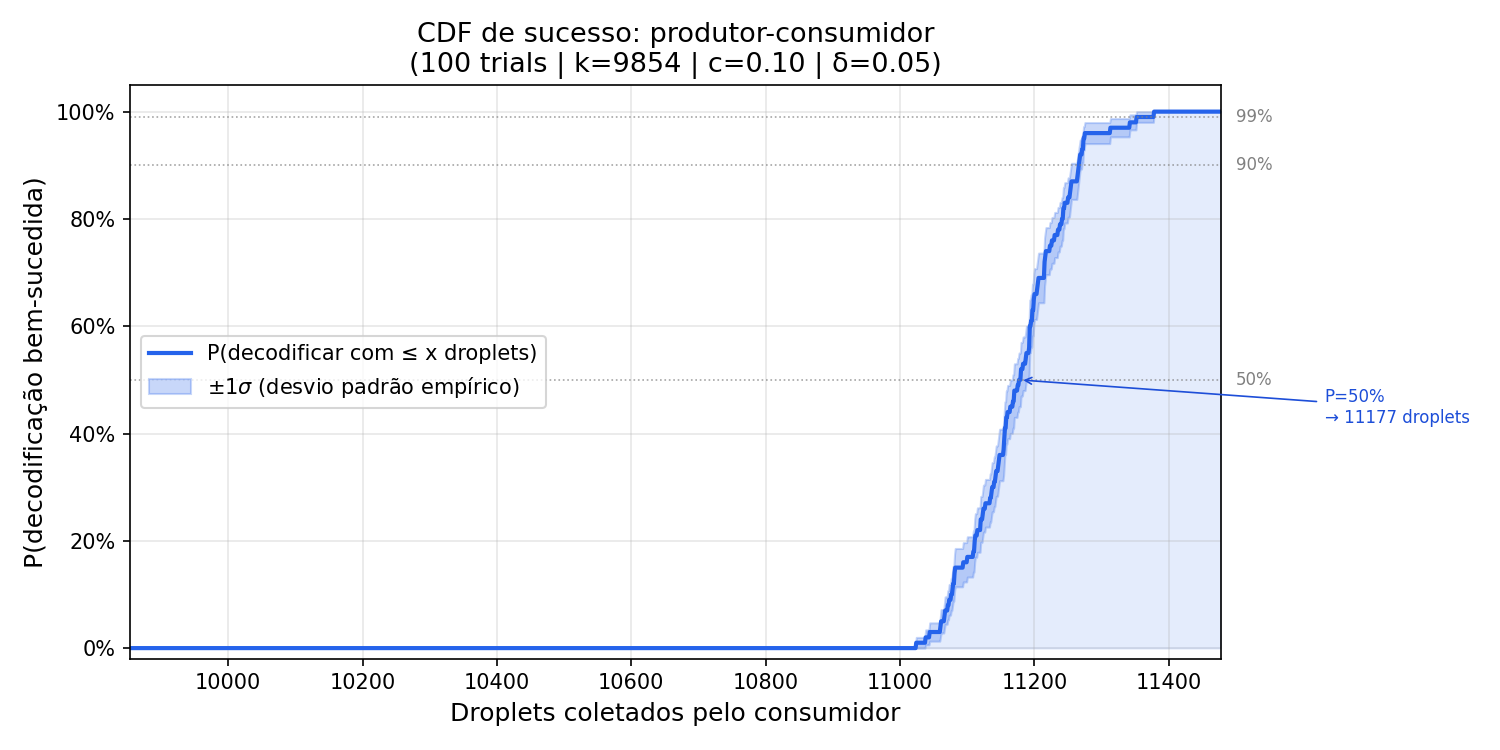
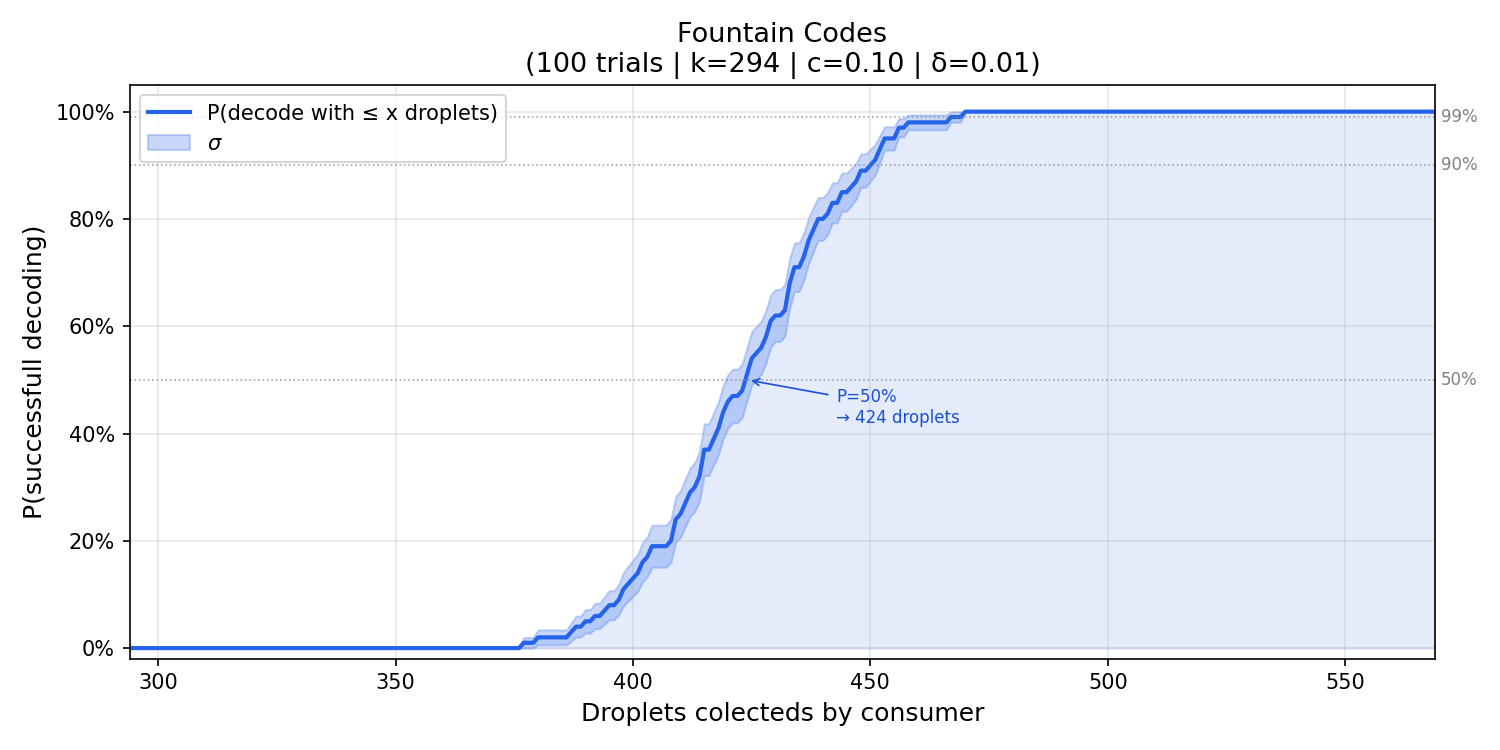
minor changes

diff --git a/src/distribution.rs b/src/distribution.rs
@@ -1,4 +1,4 @@
-//! Degree distribution trait and the Robust Soliton Distribution (RSD) for LT codes.
+//! Degree distribution trait, the Ideal Soliton Distribution (ISD), and the Robust Soliton Distribution (RSD) for LT codes.
 //!
 //! This module defines [`DegreeDistribution`], the abstraction over how many source
 //! blocks each encoded droplet combines, and provides the canonical implementation
@@ -33,25 +33,117 @@
 //! ```
 
 use rand::Rng;
+use rand_distr::{Binomial, Distribution, Geometric, Poisson};
 
 /// Trait for swappable degree distributions in fountain codes.
-///
-/// Implementations define how many source symbols are combined into a
-/// single encoded packet (the "degree").
 pub trait DegreeDistribution {
-    /// Samples a degree $d$ satisfying the contract $1 \le d \le K$.
-    ///
-    /// Implementations **must** guarantee the returned value lies in $[1, K]$,
-    /// where $K$ is the number of source blocks. Values outside this range
-    /// will cause out-of-bounds index selection during encoding.
     fn sample_degree<R: Rng + ?Sized>(&self, rng: &mut R) -> usize;
-
-    /// Computes the expected value $E[D]$ of the distribution.
-    ///
-    /// Used for overhead estimation and diagnostic reporting. The value
-    /// reflects the average number of XOR operations per encoded packet
-    /// under the current parameterization.
     fn expected_degree(&self) -> f64;
+}
+
+pub enum AnyDistribution {
+    RobustSoliton(RobustSoliton),
+    IdealSoliton(IdealSoliton),
+    Poisson(PoissonDist),
+    Geometric(GeometricDist),
+    Binomial(BinomialDist),
+}
+
+impl DegreeDistribution for AnyDistribution {
+    fn sample_degree<R: Rng + ?Sized>(&self, rng: &mut R) -> usize {
+        match self {
+            AnyDistribution::RobustSoliton(d) => d.sample_degree(rng),
+            AnyDistribution::IdealSoliton(d) => d.sample_degree(rng),
+            AnyDistribution::Poisson(d) => d.sample_degree(rng),
+            AnyDistribution::Geometric(d) => d.sample_degree(rng),
+            AnyDistribution::Binomial(d) => d.sample_degree(rng),
+        }
+    }
+    fn expected_degree(&self) -> f64 {
+        match self {
+            AnyDistribution::RobustSoliton(d) => d.expected_degree(),
+            AnyDistribution::IdealSoliton(d) => d.expected_degree(),
+            AnyDistribution::Poisson(d) => d.expected_degree(),
+            AnyDistribution::Geometric(d) => d.expected_degree(),
+            AnyDistribution::Binomial(d) => d.expected_degree(),
+        }
+    }
+}
+
+pub struct PoissonDist { pub k: usize, pub lambda: f64 }
+impl DegreeDistribution for PoissonDist {
+    fn sample_degree<R: Rng + ?Sized>(&self, rng: &mut R) -> usize {
+        let dist = Poisson::new(self.lambda).unwrap_or_else(|_| Poisson::new(1.0).unwrap());
+        (dist.sample(rng) as usize).clamp(1, self.k)
+    }
+    fn expected_degree(&self) -> f64 { self.lambda }
+}
+
+pub struct GeometricDist { pub k: usize, pub p: f64 }
+impl DegreeDistribution for GeometricDist {
+    fn sample_degree<R: Rng + ?Sized>(&self, rng: &mut R) -> usize {
+        let dist = Geometric::new(self.p).unwrap_or_else(|_| Geometric::new(0.5).unwrap());
+        ((dist.sample(rng) as usize) + 1).clamp(1, self.k)
+    }
+    fn expected_degree(&self) -> f64 { 1.0 / self.p }
+}
+
+pub struct BinomialDist { pub k: usize, pub n: u64, pub p: f64 }
+impl DegreeDistribution for BinomialDist {
+    fn sample_degree<R: Rng + ?Sized>(&self, rng: &mut R) -> usize {
+        let dist = Binomial::new(self.n, self.p).unwrap_or_else(|_| Binomial::new(1, 0.5).unwrap());
+        (dist.sample(rng) as usize).clamp(1, self.k)
+    }
+    fn expected_degree(&self) -> f64 { self.n as f64 * self.p }
+}
+
+
+pub struct IdealSoliton {
+    cdf: Vec<f64>,
+    pub k: usize,
+}
+
+impl IdealSoliton {
+    pub fn new(k: usize) -> Self {
+        assert!(k > 0, "epoch size k must be > 0");
+        let cdf = Self::build_cdf(k);
+        Self { cdf, k }
+    }
+
+    fn build_cdf(k: usize) -> Vec<f64> {
+        let k_f = k as f64;
+        let mut cdf = vec![0.0f64; k + 1];
+        let mut running_sum = 0.0_f64;
+        for d in 1..=k {
+            let rho = if d == 1 {
+                1.0 / k_f
+            } else {
+                1.0 / (d as f64 * (d as f64 - 1.0))
+            };
+            running_sum += rho;
+            cdf[d] = running_sum;
+        }
+        cdf[k] = 1.0; 
+        cdf
+    }
+}
+
+impl DegreeDistribution for IdealSoliton {
+    fn sample_degree<R: Rng + ?Sized>(&self, rng: &mut R) -> usize {
+        let u: f64 = rng.r#gen();
+        let idx = self.cdf[1..]
+            .binary_search_by(|v| v.partial_cmp(&u).expect("NaN in ISD CDF"))
+            .unwrap_or_else(|e| e);
+        (idx + 1).clamp(1, self.k)
+    }
+
+    fn expected_degree(&self) -> f64 {
+        self.cdf[..=self.k]
+            .windows(2)
+            .enumerate()
+            .map(|(i, w)| (i + 1) as f64 * (w[1] - w[0]))
+            .sum()
+    }
 }
 
 /// Robust Soliton Distribution (RSD) for LT (Luby Transform) codes.

diff --git a/src/bin/producer_consumer.rs b/src/bin/producer_consumer.rs
@@ -5,28 +5,42 @@ use std::{
     path::PathBuf,
 };
 
-use clap::Parser;
-use rand::{SeedableRng, seq::SliceRandom};
+use clap::{Parser, ValueEnum};
+use rand::{seq::SliceRandom, SeedableRng};
 use rand_chacha::ChaCha8Rng;
 use sef::chain::blk_file_reader::BlkFileReader;
+use sef::chain::stream::for_each_epoch;
 use sef::{
     chain::{error::ChainError, stream::EpochBatch},
     decoder::{self, BitcoinBlockVerifier},
-    distribution::RobustSoliton,
+    distribution::{AnyDistribution, BinomialDist, GeometricDist, IdealSoliton, PoissonDist, RobustSoliton},
     droplet::Encoder,
     epoch,
 };
-use sef::chain::stream::for_each_epoch;
 
+#[derive(ValueEnum, Clone, Debug)]
+enum DistType {
+    RobustSoliton,
+    IdealSoliton,
+    Poisson,
+    Geometric,
+    Binomial,
+}
 
 #[derive(Parser, Debug)]
 #[command(name = "producer-consumer")]
 struct Args {
-    #[arg(long, default_value = "/Users/lucaslima/Library/Application Support/Bitcoin/signet_new/blocks")]
+    #[arg(
+        long,
+        default_value = "/Users/lucaslima/Library/Application Support/Bitcoin/signet_new/blocks"
+    )]
     blocks_dir: PathBuf,
 
     #[arg(long, default_value_t = 500)]
     epoch_size: usize,
+
+    #[arg(long, value_enum, default_value = "robust-soliton")]
+    dist: DistType,
 
     #[arg(short, long, default_value_t = 0.3)]
     c: f64,
@@ -57,29 +71,31 @@ fn main() -> Result<(), Box<dyn std::error::Error>> {
 
     let base_seed: u64 = match args.seed {
         Some(s) => s,
-        None => ChaCha8Rng::from_entropy().get_seed().iter().fold(0u64, |acc, &b| acc.wrapping_mul(257).wrapping_add(b as u64)),
+        None => ChaCha8Rng::from_entropy()
+            .get_seed()
+            .iter()
+            .fold(0u64, |acc, &b| acc.wrapping_mul(257).wrapping_add(b as u64)),
     };
 
-
     println!(
-        "blocks_dir={} | epoch_size={} | c={} | delta={} | trials={} |",
+        "blocks_dir={} | epoch_size={} | dist={:?} | c={} | delta={} | trials={} |",
         args.blocks_dir.display(),
         args.epoch_size,
+        args.dist,
         args.c,
         args.delta,
         args.trials,
     );
 
-
     for trial in 0..args.trials {
-        let trial_seed = base_seed.wrapping_add(trial as u64).wrapping_mul(0x9E3779B97F4A7C15);
+        let trial_seed = base_seed
+            .wrapping_add(trial as u64)
+            .wrapping_mul(0x9E3779B97F4A7C15);
         let mut rng = ChaCha8Rng::seed_from_u64(trial_seed);
 
         let csv_path = args.output_dir.join(format!("trial_{:04}.csv", trial + 1));
         let mut csv = BufWriter::new(File::create(&csv_path)?);
-        writeln!(csv, "epoch_idx,k,n_collected,decode_success,c,delta,trial")?;
-
-        let mut epochs_processed = 0usize;
+        writeln!(csv, "epoch_idx,k,n_collected,decode_success,trial")?;
 
         let mut epoch_visitor = |batch: EpochBatch| -> Result<ControlFlow<()>, ChainError> {
             let k = batch.blocks.len();
@@ -118,7 +134,14 @@ fn main() -> Result<(), Box<dyn std::error::Error>> {
                 args.max_droplets
             };
 
-            let dist = RobustSoliton::new(k, args.c, args.delta);
+            let dist = match args.dist {
+                DistType::RobustSoliton => AnyDistribution::RobustSoliton(RobustSoliton::new(k, args.c, args.delta)),
+                DistType::IdealSoliton => AnyDistribution::IdealSoliton(IdealSoliton::new(k)),
+                DistType::Poisson => AnyDistribution::Poisson(PoissonDist { k, lambda: 2.0 }),
+                DistType::Geometric => AnyDistribution::Geometric(GeometricDist { k, p: 0.1 }),
+                DistType::Binomial => AnyDistribution::Binomial(BinomialDist { k, n: k as u64 / 2, p: 0.5 }),
+            };
+
             let params = sef::droplet::EpochParams::new(batch.index as u64, k as u32, epoch_seed);
             let encoder = Encoder::new(&params, &dist, &source_blocks);
             let verifier = BitcoinBlockVerifier {
@@ -141,13 +164,11 @@ fn main() -> Result<(), Box<dyn std::error::Error>> {
 
                 writeln!(
                     csv,
-                    "{},{},{},{},{},{},{}",
+                    "{},{},{},{},{}",
                     batch.index,
                     k,
                     n_collected,
                     if ok { 1 } else { 0 },
-                    args.c,
-                    args.delta,
                     trial + 1
                 )?;
 
@@ -155,20 +176,14 @@ fn main() -> Result<(), Box<dyn std::error::Error>> {
                     already_succeeded = true;
                     println!(
                         "  Trial {:4} | k={} | first success with {} droplets",
-                        trial + 1, k, n_collected
+                        trial + 1,
+                        k,
+                        n_collected
                     );
                     break;
                 }
             }
 
-            if !already_succeeded {
-                println!(
-                    "  Trial {:4} | Epoch {:3}: k={} | not decoded {} droplets",
-                    trial + 1, batch.index, k, max_droplets
-                );
-            }
-
-            epochs_processed += 1;
             Ok(ControlFlow::Continue(()))
         };
 